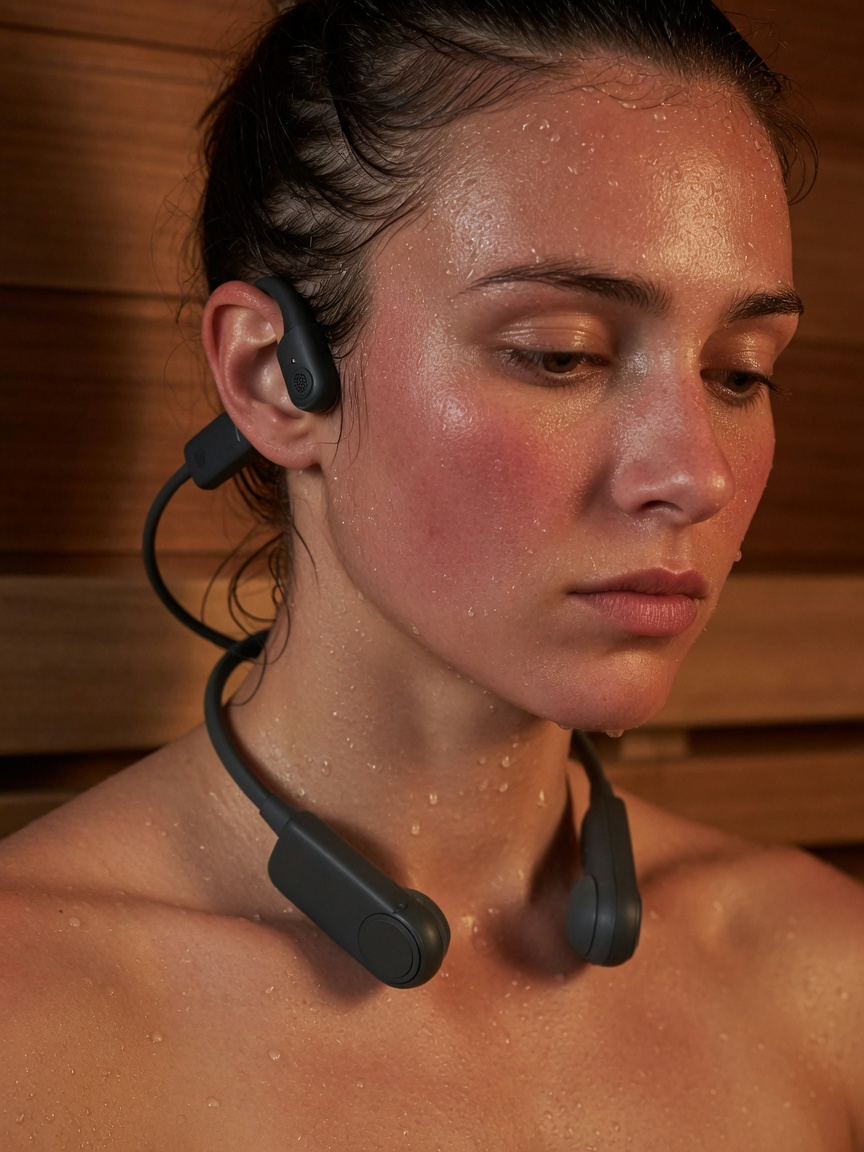
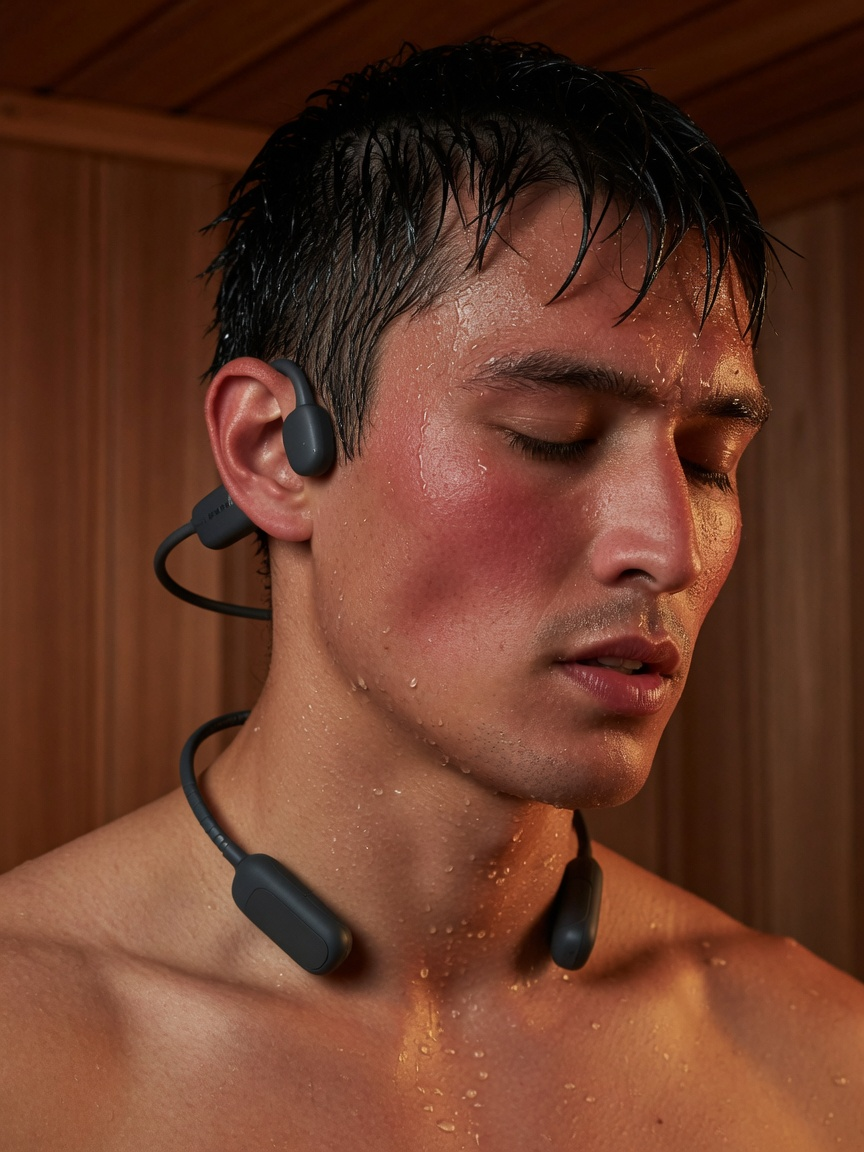
Give color swatches more air and reshoot the sauna as a man.
Add space above the four colorway circles and replace only the sauna still with a young, fit male close-up.

diff --git a/index3.html b/index3.html
@@ -485,7 +485,7 @@ section, .s-foot{
 /* colorways */
 .s-colors{
   min-height:100svh;
-  padding-top:12vh; padding-bottom:9vh;
+  padding-top:12vh; padding-bottom:11vh;
   display:flex; flex-direction:column; justify-content:space-between;
   align-items:center; text-align:center;
 }
@@ -508,7 +508,7 @@ section, .s-foot{
 .cw-fade.out{ opacity:0; }
 .swatches{
   display:flex; flex-wrap:wrap; justify-content:center; gap:16px;
-  margin:0; padding:0; list-style:none;
+  margin:52px 0 0; padding:0; list-style:none;
 }
 .swatch{
   width:38px; height:38px; padding:0;
@@ -812,7 +812,7 @@ button[type=submit][disabled]{ opacity:.55; cursor:default; transform:none; }
 
   <section class="chapter chapter--heat" data-reveal aria-labelledby="u1">
     <div class="chapter-frame">
-      <img src="images/v3-sauna.jpg" alt="Close-up of a young woman in a cedar sauna, skin shining with sweat, wearing Dipsana bone-conduction headphones" width="864" height="1152" loading="lazy" decoding="async">
+      <img src="images/v3-sauna.jpg" alt="Close-up of a young man in a cedar sauna, skin shining with sweat, wearing Dipsana bone-conduction headphones" width="864" height="1152" loading="lazy" decoding="async">
       <div class="chapter-copy">
         <p class="mono deg-hot rv">Sauna · 80–100°C · 15–20 min</p>
         <h2 class="display display--mid rv" id="u1">Sauna</h2>
